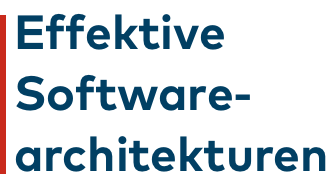
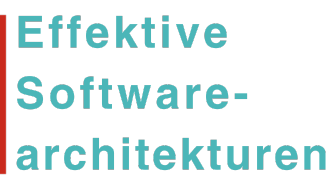
update colors to new book cover for 10th edition

Changed region(s): [[0.0, 0.0546, 1.0, 0.9563]]

diff --git a/_sass/minimal-mistakes/skins/_aqua.scss b/_sass/minimal-mistakes/skins/_aqua.scss
@@ -3,7 +3,7 @@
    ========================================================================== */
 
 /* Colors */
-$gray                       : #093C5C !default;
+$gray                       : #296D6F !default;
 $dark-gray                  : mix(#000, $gray, 40%) !default;
 $darker-gray                : mix(#000, $gray, 60%) !default;
 $light-gray                 : mix(#fff, $gray, 50%) !default;
@@ -22,7 +22,7 @@ $warning-color              : #e67e22 !default;
 $danger-color               : #c0392b !default;
 $info-color                 : #428887 !default;
 
-$footer-background-color    : #E9A9A4 !default;
+$footer-background-color    : #edbab6 !default;
 
 /* links */
 $link-color                 : $info-color !default;

diff --git a/assets/css/custom-styles.css b/assets/css/custom-styles.css
@@ -9,7 +9,7 @@
     border-radius: 5px;
     padding: 30px 30px 0 30px;
     margin-bottom: 30px;
-    background: rgba(9, 60, 92, 0.1);
+    background: rgba(35, 65, 66, 0.1);
 }
 
 .center {
@@ -47,14 +47,15 @@ socials
   width: 50px;
   height: 50px;
   border-radius: 50%;
-  background: #093C5C;
+  background: #296D6F;
   font-size: 24px;
   line-height: 50px;
   text-align: center;
   transition: background-color 0.3s ease;
 
   &:hover {
-    background: #5FC3C2;
+    background: #093C5C;
+
   }
 
 }
